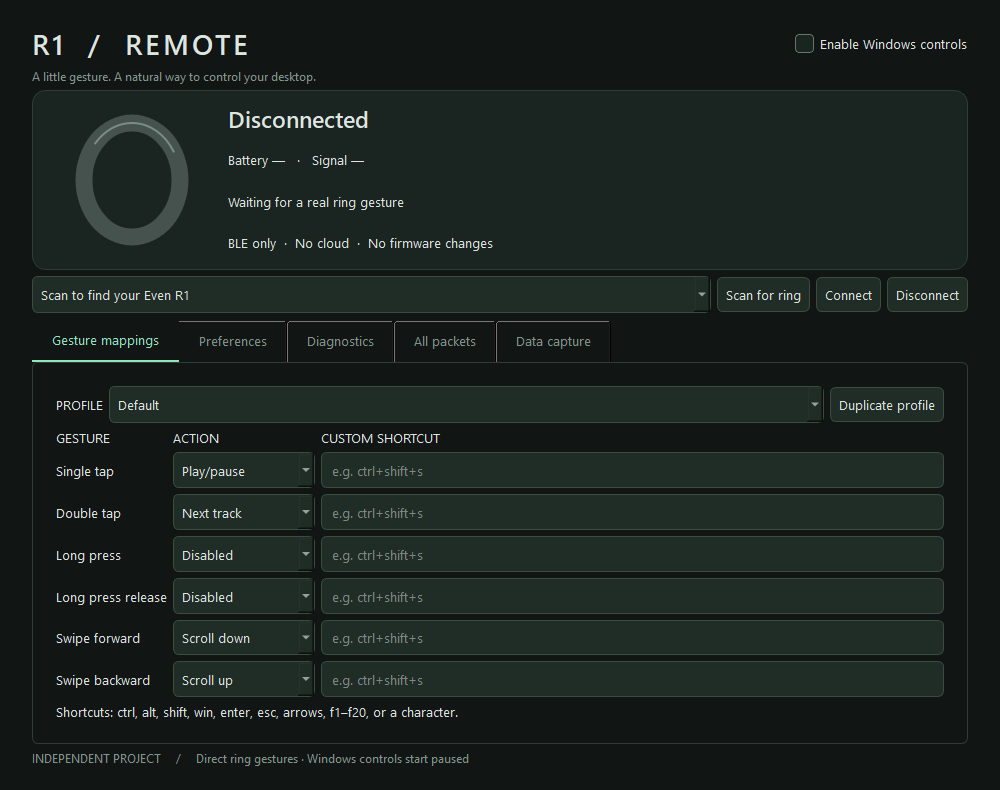
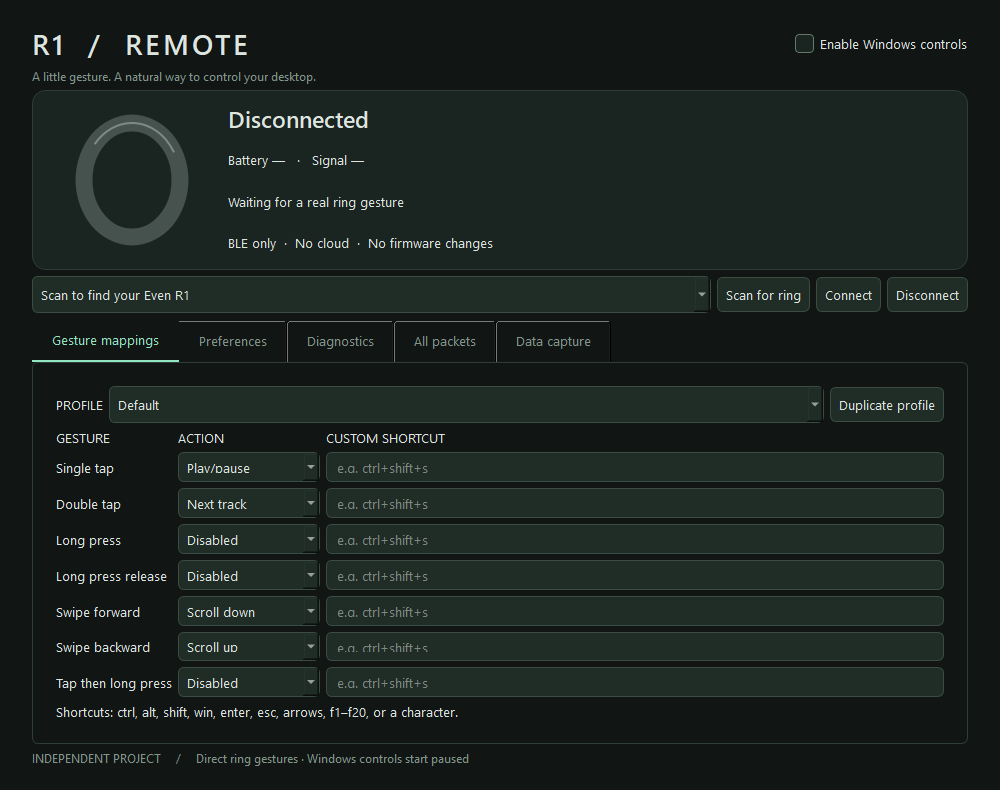
Recognize the R1 tap then long press gesture

Changed region(s): [[0.062, 0.5468, 0.93, 0.881], [0.062, 0.5772, 0.124, 0.6076]]

diff --git a/tests/test_combo.py b/tests/test_combo.py
@@ -1,0 +1,141 @@
+import json
+from types import SimpleNamespace
+
+import pytest
+
+from even_r1.actions import Actions
+from even_r1.ble import NOTIFY, Transport
+from even_r1.protocol import Gesture, decode
+from even_r1.settings import Settings, defaults
+
+
+def combo_packet(parameter=2, tick=0x12345678):
+    return b"\x00\x09\x61\x00\x09" + parameter.to_bytes(2, "little") + tick.to_bytes(4, "little")
+
+
+def test_tap_then_long_press_preserves_parameter_and_tick():
+    event = decode(combo_packet())
+
+    assert event.gesture is Gesture.TAP_HOLD
+    assert event.variant == "charger"
+    assert event.parameter == 2
+    assert event.tick == 0x12345678
+
+
+@pytest.mark.parametrize("parameter", [0, 1, 3, 0x200, 0xFFFF])
+def test_combo_ignores_unverified_parameters(parameter):
+    assert decode(combo_packet(parameter)) is None
+
+
+def test_combo_requires_the_complete_observed_frame():
+    packet = combo_packet()
+    for length in range(len(packet)):
+        assert decode(packet[:length]) is None
+    assert decode(packet + b"\x00") is None
+    assert decode(b"\x01" + packet[1:]) is None
+    assert decode(bytes.fromhex("ff0902")) is None
+    assert decode(bytes.fromhex("ff0409")) is None
+
+
+@pytest.mark.parametrize("code", [3, 6, 7, 10, 255])
+def test_combo_parameter_does_not_recognize_other_unknown_codes(code):
+    packet = bytearray(combo_packet())
+    packet[4] = code
+
+    assert decode(packet) is None
+
+
+@pytest.mark.parametrize("code, expected", [
+    (0, Gesture.HOLD), (1, Gesture.TAP), (2, Gesture.DOUBLE),
+    (4, Gesture.BACKWARD), (5, Gesture.FORWARD), (8, Gesture.RELEASE),
+])
+def test_combo_parameter_preserves_existing_gesture_codes(code, expected):
+    packet = bytearray(combo_packet())
+    packet[4] = code
+
+    event = decode(packet)
+    assert event.gesture is expected
+    assert event.parameter == 2
+
+
+def test_combo_deduplicates_across_channels_but_keeps_every_raw_packet():
+    events = []
+    transport = Transport(lambda kind, value: events.append((kind, value)))
+    channels = [SimpleNamespace(uuid=uuid) for uuid in sorted(NOTIFY)]
+
+    transport.notification(channels[0], combo_packet(tick=71))
+    transport.notification(channels[1], combo_packet(tick=71))
+    transport.notification(channels[0], combo_packet(tick=72))
+
+    gestures = [event for kind, event in events if kind == "gesture"]
+    assert [(event.gesture, event.tick) for event in gestures] == [
+        (Gesture.TAP_HOLD, 71), (Gesture.TAP_HOLD, 72),
+    ]
+    assert sum(kind == "raw_packet" for kind, _ in events) == 3
+    assert sum(kind == "packet" for kind, _ in events) == 3
+
+
+def test_combo_default_is_disabled_without_reordering_existing_gestures():
+    assert list(Gesture) == [Gesture.TAP, Gesture.DOUBLE, Gesture.HOLD, Gesture.RELEASE,
+                             Gesture.FORWARD, Gesture.BACKWARD, Gesture.TAP_HOLD]
+    profiles = defaults()["profiles"]
+    for mapping in profiles.values():
+        assert mapping[Gesture.TAP_HOLD] == {"action": "Disabled", "hotkey": ""}
+    assert {gesture: value["action"] for gesture, value in profiles["Default"].items()} == {
+        Gesture.TAP: "Play/pause", Gesture.DOUBLE: "Next track", Gesture.HOLD: "Disabled",
+        Gesture.RELEASE: "Disabled", Gesture.FORWARD: "Scroll down",
+        Gesture.BACKWARD: "Scroll up", Gesture.TAP_HOLD: "Disabled",
+    }
+
+
+def test_old_settings_keep_all_mappings_and_add_disabled_combo(tmp_path):
+    old_gestures = [Gesture.TAP, Gesture.DOUBLE, Gesture.HOLD, Gesture.RELEASE,
+                    Gesture.FORWARD, Gesture.BACKWARD]
+    old_mapping = {
+        gesture: {"action": "Keyboard shortcut", "hotkey": f"ctrl+{index}"}
+        for index, gesture in enumerate(old_gestures)
+    }
+    old_profiles = {name: dict(old_mapping) for name in ["Default", "Media", "Browser", "Presentation", "Custom"]}
+    path = tmp_path / "settings.json"
+    path.write_text(json.dumps({"profiles": old_profiles, "profile": "Custom"}), encoding="utf-8")
+
+    settings = Settings(path)
+
+    assert settings.data["profile"] == "Custom"
+    for mapping in settings.data["profiles"].values():
+        for gesture in old_gestures:
+            assert mapping[gesture] == old_mapping[gesture]
+        assert mapping[Gesture.TAP_HOLD] == {"action": "Disabled", "hotkey": ""}
+    settings.save()
+    assert Settings(path).data == settings.data
+
+
+def test_combo_is_inert_by_default_and_executes_only_an_assigned_action(tmp_path):
+    class Input:
+        def __init__(self):
+            self.events = []
+
+        def press(self, key):
+            self.events.append(("press", key))
+
+        def release(self, key):
+            self.events.append(("release", key))
+
+    settings = Settings(tmp_path / "settings.json")
+    keyboard, mouse = Input(), Input()
+    actions = Actions(settings, keyboard, mouse)
+    assert actions.execute(Gesture.TAP_HOLD, now=1) == "Paused"
+    actions.enabled = True
+    assert actions.execute(Gesture.TAP_HOLD, now=1) == "Disabled"
+    assert keyboard.events == [] and mouse.events == []
+
+    settings.data["profiles"]["Default"][Gesture.TAP_HOLD] = {
+        "action": "Keyboard shortcut", "hotkey": "ctrl+a",
+    }
+    assert actions.execute(Gesture.TAP_HOLD, now=2) == "Keyboard shortcut"
+    assert [kind for kind, _ in keyboard.events] == ["press", "press", "release", "release"]
+    pressed = [key for kind, key in keyboard.events if kind == "press"]
+    released = [key for kind, key in keyboard.events if kind == "release"]
+    assert released == list(reversed(pressed))
+    assert mouse.events == []
+    assert actions.execute(Gesture.TAP_HOLD, now=2.01) == "Debounced"

diff --git a/even_r1/protocol.py b/even_r1/protocol.py
@@ -1,4 +1,8 @@
-"""Gesture semantics ported from Hermes G2 (GPL-3.0); see THIRD_PARTY.md."""
+"""Hermes gesture semantics plus a locally observed R1 tap-then-hold extension.
+
+The original decoder is GPL-3.0; see THIRD_PARTY.md. The bounded 09/0200
+extension follows the owner's gesture report and matching physical repetitions.
+"""
 from dataclasses import dataclass
 from enum import StrEnum
 
@@ -9,6 +13,7 @@ class Gesture(StrEnum):
     RELEASE = "Long press release"
     FORWARD = "Swipe forward"
     BACKWARD = "Swipe backward"
+    TAP_HOLD = "Tap then long press"
 
 @dataclass(frozen=True)
 class Event:
@@ -29,6 +34,8 @@ def decode(raw: bytes) -> Event | None:
         gesture = {0: Gesture.HOLD, 1: Gesture.TAP, 2: Gesture.DOUBLE,
                    4: Gesture.BACKWARD, 5: Gesture.FORWARD,
                    8: Gesture.RELEASE}.get(raw[4])
+        if raw[4] == 9 and raw[5:7] == b"\x02\x00":
+            gesture = Gesture.TAP_HOLD
         if gesture:
             return Event(gesture, "charger", int.from_bytes(raw[5:7], "little"),
                          int.from_bytes(raw[7:11], "little"))

diff --git a/even_r1/settings.py b/even_r1/settings.py
@@ -11,7 +11,15 @@ ACTIONS = ["Disabled", "Scroll up", "Scroll down", "Volume up", "Volume down",
            "Left click", "Right click", "Middle click"]
 
 def defaults():
-    base = dict(zip(Gesture, ["Play/pause", "Next track", "Disabled", "Disabled", "Scroll down", "Scroll up"]))
+    base = {
+        Gesture.TAP: "Play/pause",
+        Gesture.DOUBLE: "Next track",
+        Gesture.HOLD: "Disabled",
+        Gesture.RELEASE: "Disabled",
+        Gesture.FORWARD: "Scroll down",
+        Gesture.BACKWARD: "Scroll up",
+        Gesture.TAP_HOLD: "Disabled",
+    }
     profiles = {}
     for name in ["Default", "Media", "Browser", "Presentation"]:
         profiles[name] = {g: {"action": a, "hotkey": ""} for g, a in base.items()}

diff --git a/even_r1/__init__.py b/even_r1/__init__.py
@@ -1,2 +1,2 @@
 
-__version__ = "0.1.6"
+__version__ = "0.1.7"

diff --git a/README.md b/README.md
@@ -4,8 +4,8 @@ Independent Windows 11 desktop remote for the Even Realities R1. Direct BLE,
 local settings, no G2 dependency, no cloud and no firmware changes.
 
 **Experimental: real R1 gesture reception has been observed on one ring.**
-Windows discovery, pairing, both notification subscriptions and all six supported
-gesture codes have been captured. The desktop app sends one fixed, documented
+Windows discovery, pairing, both notification subscriptions and all seven supported
+gesture types have been captured. The desktop app sends one fixed, documented
 touch-sensor enable request after subscribing. Windows input actions and broad
 firmware compatibility still require validation; controls start paused.
 
@@ -17,6 +17,7 @@ Version 0.1.3 adds raw capture sessions with labelled, timed repetitions.
 Version 0.1.4 adds an All packets tab with the complete notification history.
 Version 0.1.5 adds receive health and manual subscription refresh.
 Version 0.1.6 enables the ring's touch source once after each connection.
+Version 0.1.7 recognizes tap then long press as a separate configurable gesture.
 
 ![Desktop](docs/desktop.png)
 
@@ -47,7 +48,7 @@ not establish reception.
 
 - Two supported notification channels, touch-source activation, GATT enumeration,
   raw packet diagnostics.
-- Single/double tap, long press/release, forward/backward swipe.
+- Single/double tap, long press/release, forward/backward swipe, tap then long press.
 - Scroll, optional acceleration, volume/media, mouse clicks, custom shortcuts.
 - Default, Media, Browser, Presentation and duplicate-to-custom profiles.
 - Auto-connect to a saved ring, reconnect backoff, tray pause and minimize.
@@ -73,6 +74,12 @@ the active notification channels using standard CCCD operations. It sends no
 application commands. Windows connections discover fresh services, and intentional
 disconnects disable active subscriptions before closing the connection.
 Refresh does not repeatedly send the touch-source enable request.
+
+**Tap then long press** is a separate mapping: make a short tap, then hold the
+second contact for about one second. The observed packet uses code 09 with
+parameter bytes 02 00. Its action defaults to Disabled in all profiles; select
+an action under Gesture mappings. It is not synthesized from separate single
+tap and long-press actions. Other code-09 parameters and code 0A remain unknown.
 
 Connect the selected ring (a saved ring can be selected before scanning), then
 open **Data capture**. Press **Start recording** to

diff --git a/docs/RESEARCH.md b/docs/RESEARCH.md
@@ -103,7 +103,30 @@ commands. Subscription refresh does not resend activation. An unavailable or
 failed write preserves raw reception and produces an explicit sensor state.
 The CLI remains passive with application activation disabled.
 
-Unknown eleven-byte codes 09 and 0A were also observed and remain ignored for
-actions. The supported decoder still matches Hermes. Its combined parameter
+Unknown eleven-byte codes 09 and 0A were also observed; 0A remains ignored for
+actions, while the later bounded 09 extension is documented below. The original
+supported decoder matches Hermes. Its combined parameter
 field preserves the two wire bytes; firmware reconstruction calls them distance
 and velocity. Actions do not depend on that combined value.
+
+## Tap then long press extension (2026-10-19)
+
+The owner identified code 09 as tap then long press in the official application
+and repeated the requested combination. Observed eleven-byte packets consistently
+use `00 09 61 00 09 02 00`, following two 0A notifications and preceding an 08
+release. Firmware tick spacing distinguishes the held second contact from an
+ordinary double tap. The earlier logs contain no synchronized per-trial labels,
+so no exact three-for-three trial count is inferred from them.
+
+Even's [Menu guide](https://support.evenrealities.com/hc/en-us/articles/14269160297999-Menu)
+documents a short tap followed by holding the second contact for one second for
+firmware 2.2.9 or later. The [control guide](https://support.evenrealities.com/hc/en-us/articles/13772400722063-How-to-Control)
+also lists this combination. These sources establish the gesture's existence;
+they do not define its BLE code. The code mapping is based on the owner's report
+and the matching local notifications.
+
+Version 0.1.7 recognizes only code 09 with exact parameter 02 00 in the known
+eleven-byte frame. It emits one Tap then long press event rather than inventing
+separate tap/hold events. Generic release handling is unchanged. Other 09
+parameters and 0A remain ignored for actions. Existing profiles retain their
+mappings; this new gesture defaults to Disabled.

diff --git a/THIRD_PARTY.md b/THIRD_PARTY.md
@@ -6,6 +6,12 @@ Original attribution belongs to Hermes G2 / Faceclaw contributors. The upstream
 project is GPL-3.0; this derivative is distributed under GPL-3.0-or-later.
 https://github.com/not-benny/hermes-g2
 
+The tap-then-long-press extension (11-byte code 09, parameter 02 00) is based on
+the owner's local R1 observations and repetitions, alongside Even's public
+description of the combined gesture. It is not present in the pinned Hermes
+decoder.
+https://support.evenrealities.com/hc/en-us/articles/14269160297999-Menu
+
 The fixed touch-source enable request and protocol layout were independently
 implemented from public reverse-engineering facts in evenRealities-openCFW,
 revision 5a55562c8a4fb2ac52fa791c0ca7c4e4131e5395 (touch handler, RAM source

diff --git a/docs/RELEASE_NOTES_0.1.7.md b/docs/RELEASE_NOTES_0.1.7.md
@@ -1,0 +1,12 @@
+Tap then long press
+
+Recognize the observed R1 code 09 / parameter 02 00 as Tap then long press: make
+a short tap and hold the second contact. The gesture has its own row in Gesture
+mappings and can be assigned any supported action or shortcut.
+
+Existing profile mappings are preserved. The new gesture defaults to Disabled
+in every profile. No separate single-tap or long-press event is synthesized for
+the combined packet; normal release handling remains available.
+
+Decoding is limited to the observed exact 11-byte form. Other code-09 parameters
+and code 0A remain raw notifications without actions. BLE activation is unchanged.
